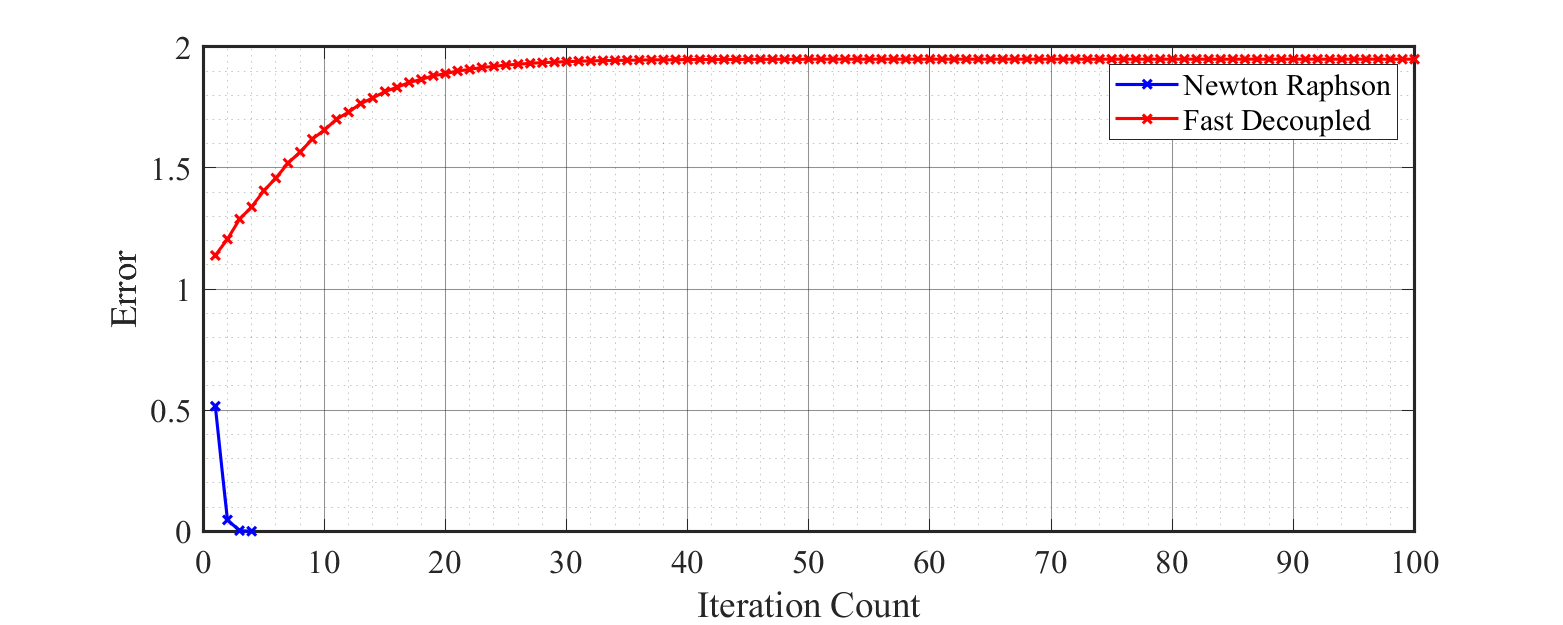
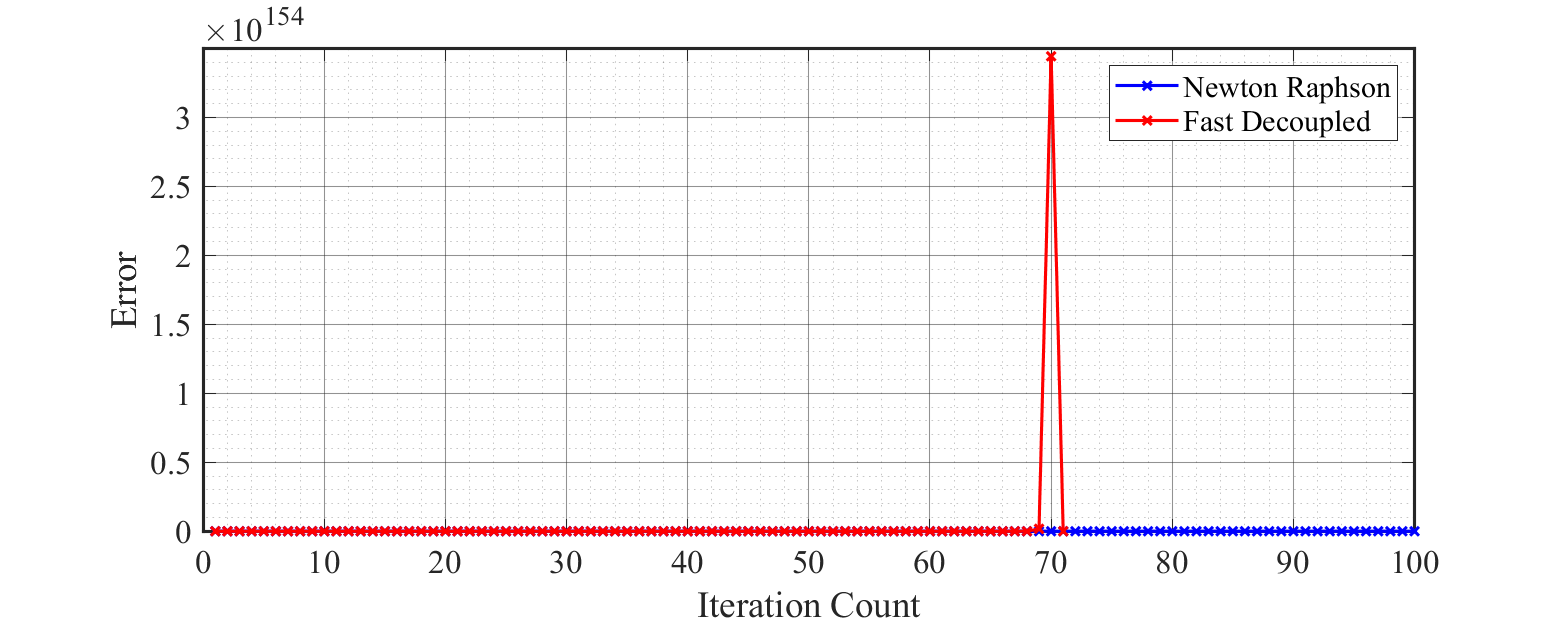
case 2 of HW1

diff --git a/HW1/main.m b/HW1/main.m
@@ -3,7 +3,8 @@ clear all; close all;
 
 % Initializing 14 bus and importing data
 n_bus = 11;
-bus_data = importdata('ieee11bus.txt').data;
+% bus_data = importdata('ieee11bus.txt').data;
+bus_data = importdata('ieee11bus_allPV.txt').data;
 branch_data = importdata('ieee11branch.txt').data;
    
 % Ybus formation
